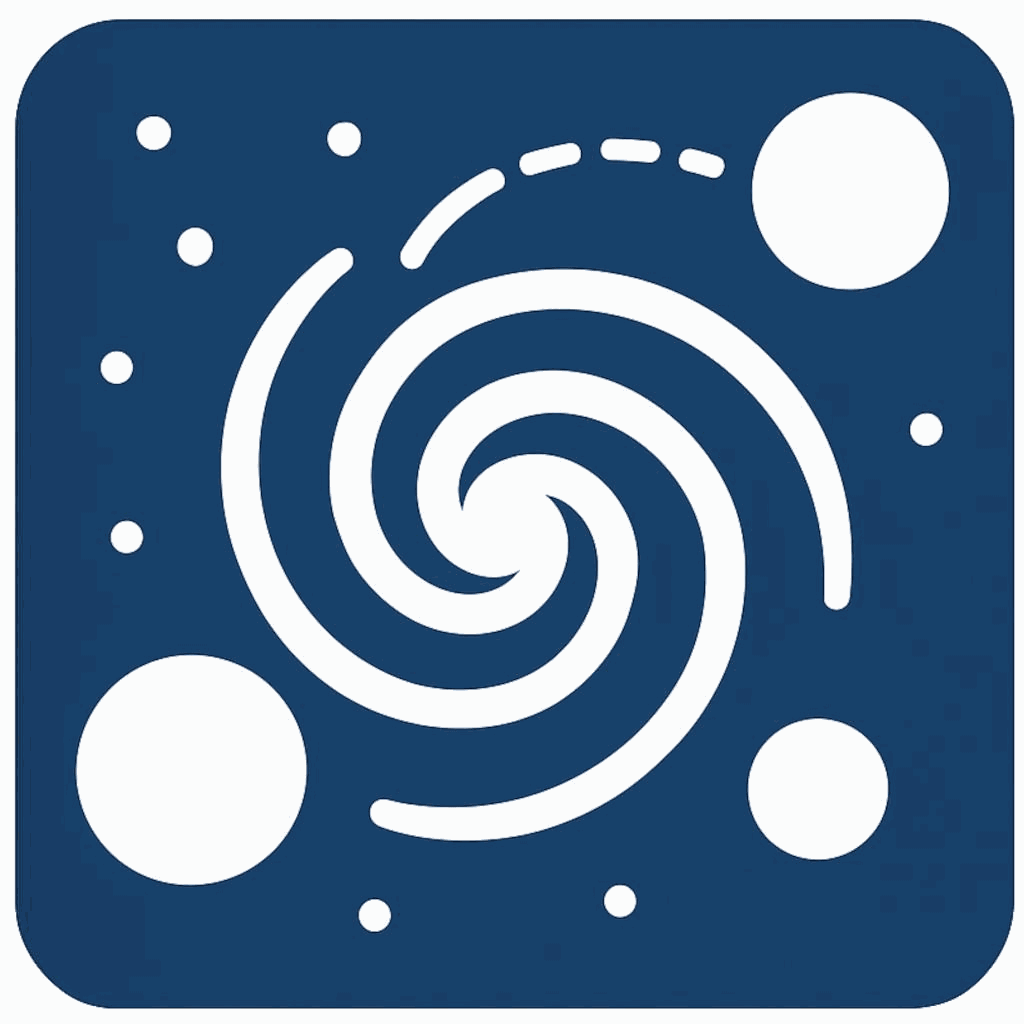
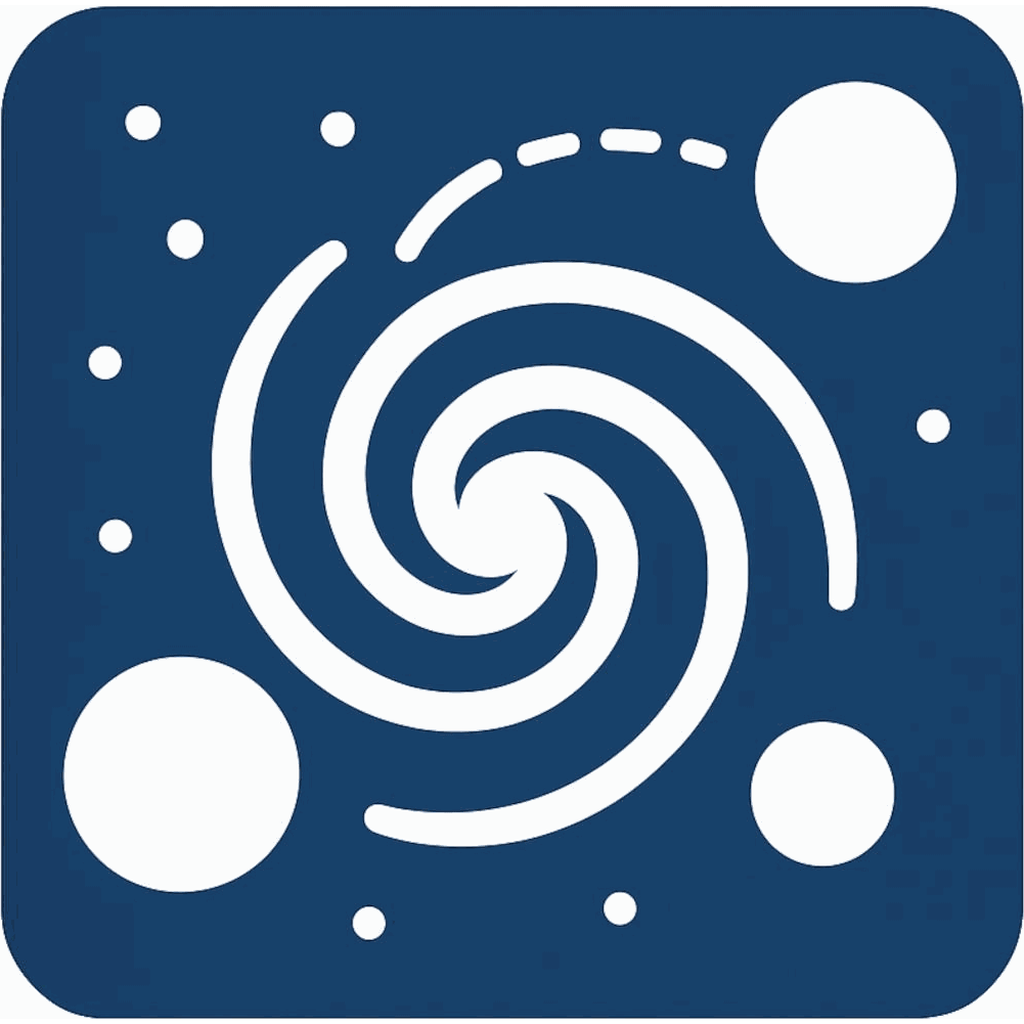
Add files via upload

diff --git a/index.html b/index.html
@@ -6,9 +6,9 @@
 <meta name="theme-color" content="#123e68">
 <meta name="description" content="音声案内・回数カウント・30秒休憩付きの腹筋トレーニングタイマー">
 <link rel="manifest" href="./manifest.webmanifest">
-<link rel="icon" type="image/png" href="./app-icon.png">
-<link rel="apple-touch-icon" href="./app-icon.png">
-<title>腹筋トレーニングタイマー</title>
+<link rel="icon" type="image/png" href="./app-icon.png?v=3">
+<link rel="apple-touch-icon" href="./app-icon.png?v=3">
+<title>トレーニングタイマー</title>
 <style>
 :root{color-scheme:light dark;--bg:#f3f7fa;--card:#fff;--ink:#102b49;--muted:#526579;--line:#d4e0e8;--accent:#123e68;--mint:#bcebe6}
 @media(prefers-color-scheme:dark){:root{--bg:#101820;--card:#1c2935;--ink:#eef6ff;--muted:#b7c6d4;--line:#3b4b59;--accent:#4e9bd5;--mint:#245b5a}}

diff --git a/sw.js b/sw.js
@@ -1,5 +1,5 @@
-const CACHE_NAME = 'abs-workout-v4';
-const APP_FILES = ['./', './index.html', './manifest.webmanifest', './icon.svg', './app-icon.png'];
+const CACHE_NAME = 'training-timer-v3';
+const APP_FILES = ['./', './index.html', './manifest.webmanifest', './icon.svg', './app-icon.png?v=3'];
 self.addEventListener('install', event => {
   event.waitUntil(caches.open(CACHE_NAME).then(cache => cache.addAll(APP_FILES)));
   self.skipWaiting();
